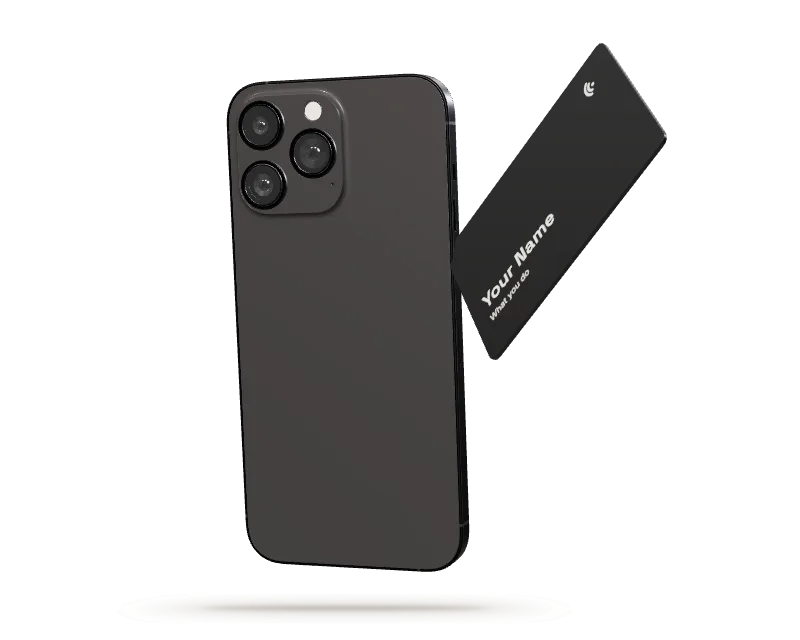
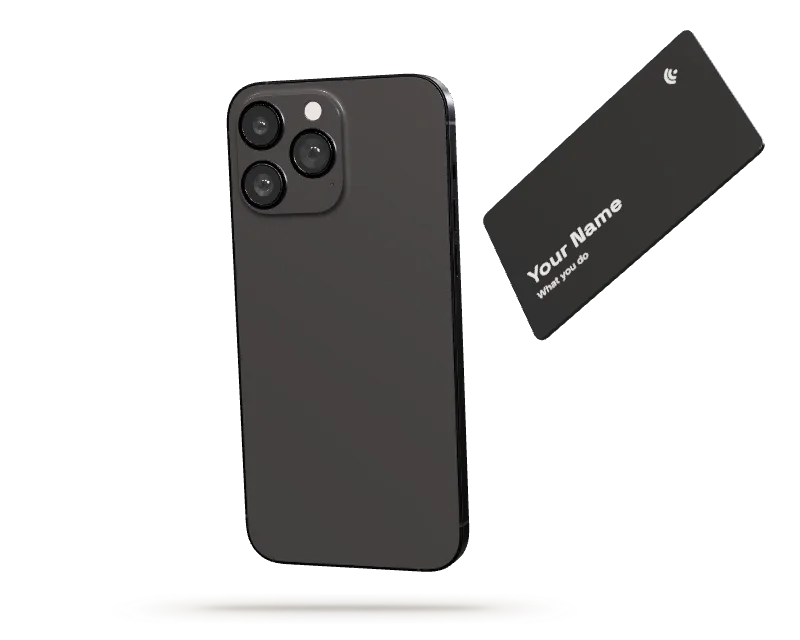
fix(home): tap demo card never passes through the phone, smooth settle; faster phone close-up
- Tap demo: the card's rest point moves out of the turning phone's sweep,
  its angle settles flat before it gets close, and the knock starts only
  once it's clear (zero box overlap across the loop, sampled); it glides
  to rest on a quartic ease-out over 2.4 s with the arc and knock ending
  at zero speed, instead of stopping dead; still re-rendered
- Phone story: section 700svh -> 540svh; the close-up reaches 95% soon
  after the note lands, then only the last 5% settles slowly

Changed region(s): [[0.5625, 0.0312, 0.9688, 0.5625]]

diff --git a/components/marketing/card3d/tapScene.ts b/components/marketing/card3d/tapScene.ts
@@ -22,11 +22,13 @@ const soft = (a: number, b: number, v: number) => {
 // When the card strikes, and how long the fall and the bounce take.
 const HIT = 1.7;
 const FALL = 1.3;
-const BOUNCE = 1.6;
+const BOUNCE = 2.4;
 
 // Where the card rests (world units; the phone's back faces us at the
-// start).
-const FAR = { x: 1.55, y: 0.95, z: 1.25, rx: -0.55, ry: -0.95, rz: 0.42 };
+// start). Far enough out that the phone's corners, sweeping round in its
+// full turn, never reach the card, whatever its angle (checked by sampling
+// the loop with a box-overlap test).
+const FAR = { x: 2.0, y: 1.05, z: 1.55, rx: -0.5, ry: -0.75, rz: 0.38 };
 
 // The phone's pose (before the strike's nudge) at time k in the loop.
 const SPIN_1 = [HIT + 0.55, HIT + 2.1] as const;
@@ -120,27 +122,38 @@ export function createTapScene(canvas: HTMLCanvasElement, opts: { still?: boolea
     const k = ((t % TAP_CYCLE) + TAP_CYCLE) % TAP_CYCLE;
 
     // The card. Falling in: the gap closes faster and faster (a cubic ease
-    // in), so it meets the phone at full speed. Bouncing off: it leaves at
-    // full speed and slows to rest (a cubic ease out). Together that's the
-    // cusp curve: slow at both far points, fastest at the strike.
+    // in), so it meets the phone at full speed, while its angle settles
+    // early (a cubic ease out), so it's already flat to the back before it
+    // gets close and no edge can cut into the phone. Bouncing off: it leaves
+    // at full speed and glides to rest on a quartic ease out (no speed left
+    // at rest, so it never stops dead); its angle stays flat at first and
+    // turns away once it's clear.
     const fall = clamp((k - (HIT - FALL)) / FALL);
     const bounce = clamp((k - HIT) / BOUNCE);
     let near: number;
-    if (k < HIT) near = fall * fall * fall;
-    else near = 1 - (1 - Math.pow(1 - bounce, 3));
-    // A little arc on the way back up, like a bounce under gravity.
-    const arc = k >= HIT ? Math.sin(Math.PI * bounce) * 0.35 : 0;
-    // The knock: the strike sets it spinning a little about every axis,
-    // dying away as it comes to rest (zero at the strike and at rest, so
-    // the loop joins up).
-    const knock = k >= HIT ? Math.sin(Math.PI * bounce) * Math.pow(1 - bounce, 0.6) : 0;
+    let turnT: number;
+    if (k < HIT) {
+      near = fall * fall * fall;
+      turnT = 1 - Math.pow(1 - fall, 3);
+    } else {
+      near = Math.pow(1 - bounce, 4);
+      turnT = 1 - bounce * bounce * (3 - 2 * bounce);
+    }
+    // A little arc on the way back up, like a bounce under gravity, flat
+    // again as it comes to rest.
+    const arc = k >= HIT ? Math.sin(Math.PI * bounce) * (1 - bounce) * 0.55 : 0;
+    // The knock: the strike sets it spinning a little about every axis once
+    // it has pulled clear of the phone, dying away smoothly as it comes to
+    // rest (zero, with no speed, at the strike and at rest, so the loop
+    // joins up).
+    const knock = k >= HIT ? Math.sin(Math.PI * bounce) * Math.pow(1 - bounce, 2) * 1.6 * soft(0.03, 0.2, bounce) : 0;
     // While it rests at the far point it hovers, just perceptibly.
     const hover = Math.sin((k / TAP_CYCLE) * Math.PI * 4) * 0.04 * (1 - near);
     card.group.position.set(mix(FAR.x, TOUCH.x, near), mix(FAR.y, TOUCH.y, near) + arc + hover, mix(FAR.z, TOUCH.z, near));
     card.group.rotation.set(
-      mix(FAR.rx, TOUCH.rx, near) - knock * 0.7,
-      mix(FAR.ry, TOUCH.ry, near) + knock * 0.9,
-      mix(FAR.rz, TOUCH.rz, near) + knock * 0.5
+      mix(FAR.rx, TOUCH.rx, turnT) - knock * 0.7,
+      mix(FAR.ry, TOUCH.ry, turnT) + knock * 0.9,
+      mix(FAR.rz, TOUCH.rz, turnT) + knock * 0.5
     );
 
     const r = clamp((k - HIT) / 1.1);

diff --git a/components/marketing/card3d/phoneScene.ts b/components/marketing/card3d/phoneScene.ts
@@ -118,16 +118,17 @@ const savedAt = track([[0.76, 0], [0.93, 1]]);
    turned about 35 degrees and tipped back about 25 so the screen faces
    slightly up and to the left (y -0.61 and x -0.44 in total, with the
    story's own end pose), and the camera banks and levels out with it. */
-// Past 1 the story keeps going through the long held stretch at the end of
-// the section (story.ts): the close-up reaches about 80% soon after the
-// note lands, then settles the rest of the way very slowly, along with the
-// swing, arriving only as the section leaves the screen. Each track starts
-// with a near-flat key so nothing jolts into motion.
-const zoomAt = track([[0.6, 0], [0.68, 0.03], [0.8, 0.36], [0.95, 0.72], [1.1, 0.8], [1.45, 0.92], [END, 1]]);
-const swingYaw = track([[0.6, 0], [0.66, 0.02], [0.84, 0.32], [1.02, -0.12], [1.4, -0.26], [END, -0.31]]);
-const swingTilt = track([[0.6, 0], [0.66, 0.01], [0.84, 0.14], [1.04, -0.22], [1.4, -0.32], [END, -0.36]]);
-const swingRoll = track([[0.6, 0], [0.66, -0.01], [0.84, -0.18], [1.04, -0.08], [1.4, -0.05], [END, -0.04]]);
-const camBank = track([[0.6, 0], [0.66, 0.01], [0.84, 0.1], [1.1, 0.02], [END, 0]]);
+// Past 1 the story keeps going through the short held stretch at the end
+// of the section (story.ts): the close-up moves briskly once the note has
+// landed and reaches about 95% soon after, then only the last 5% settles,
+// slowly and smoothly, along with the swing, as the section leaves the
+// screen. Each track starts with a near-flat key so nothing jolts into
+// motion.
+const zoomAt = track([[0.6, 0], [0.68, 0.04], [0.84, 0.5], [0.98, 0.88], [1.08, 0.95], [END, 1]]);
+const swingYaw = track([[0.6, 0], [0.66, 0.02], [0.84, 0.3], [1.0, -0.14], [1.12, -0.27], [END, -0.31]]);
+const swingTilt = track([[0.6, 0], [0.66, 0.01], [0.84, 0.14], [1.0, -0.22], [1.12, -0.33], [END, -0.36]]);
+const swingRoll = track([[0.6, 0], [0.66, -0.01], [0.84, -0.18], [1.0, -0.08], [1.12, -0.05], [END, -0.04]]);
+const camBank = track([[0.6, 0], [0.66, 0.01], [0.84, 0.1], [1.04, 0.02], [END, 0]]);
 
 
 /* The note that drops out of the Dynamic Island at the end. */

diff --git a/components/marketing/card3d/story.ts b/components/marketing/card3d/story.ts
@@ -4,10 +4,10 @@
 
    The section is SECTION_SVH tall. The story itself (the tap, the turn, the
    profile, the note) plays over the first STORY_SVH of its scroll, as
-   progress 0 to 1; the rest is a long, slow ending past 1 (up to
-   STORY_END) in which the close-up on the note settles while the section
-   is still pinned, so the note can be read for a good while. */
-export const SECTION_SVH = 700;
+   progress 0 to 1; the rest is a short ending past 1 (up to STORY_END)
+   in which the close-up on the note finishes its slow last settle while
+   the section is still pinned. */
+export const SECTION_SVH = 540;
 const SCROLL_SVH = SECTION_SVH - 100; // the sticky stage is one screen tall
 const STORY_SVH = 320;
 export const STORY_SHARE = STORY_SVH / SCROLL_SVH;

diff --git a/CLAUDE.md b/CLAUDE.md
@@ -97,9 +97,14 @@ and erasing them; the card printing the name once the form's Continue is
 pressed (a clip-path wipe behind a moving print line, `.print-area`); and
 the real 3D iPhone in its own small scene (`card3d/tapScene.ts`, still
 `public/home/tap-demo.webp` is its first frame): the card falls in on a
-cubic ease-in, strikes the phone's back at full speed and bounces off on a
-cubic ease-out with an xyz knock and a little arc, while the phone turns a
-full 360 to the profile and back. Form and card share one clock; every loop
+cubic ease-in (its angle settles flat early, so no edge reaches the phone
+first), strikes the phone's back at full speed and bounces off, gliding to
+rest on a quartic ease-out over 2.4 s with an xyz knock (it starts only once
+the card is clear) and a little arc, both reaching rest with zero speed,
+while the phone turns a full 360 to the profile and back. The card's rest
+point is far enough out that the turning phone's corners never reach it;
+any change to the card's path or rest point needs re-checking for overlap
+(sample the loop, test the two boxes) and the still re-rendered. Form and card share one clock; every loop
 ends where it began; sized in container units; paused off screen; a still
 under reduced motion. The phone model (GLB, materials, screen, bar) is
 shared by both scenes via `card3d/phoneModel.ts`), PhoneStory (sticky 3D iPhone; the scene follows the
@@ -109,17 +114,18 @@ overlapping so the phone turns one way only, the card swoops in, touches
 its back and flies on without stopping, and the screen scroll and saved
 note overlap the turn; progress goes negative (`PRE_ROLL`) while the
 section is still coming up the screen; the story uses the first
-`STORY_SHARE` of the section's scroll and the rest is the slow close-up on
+`STORY_SHARE` of the section's scroll and the rest is the close-up on
 the "contact saved" note; as the note drops, the camera
 pushes in on the Dynamic Island over the whole last stretch, while the
 phone swings one way and flows back into its final pose (turned about 35
 degrees, tipped back about 25, screen facing up and to the left) and the
 camera banks and levels out (`zoomAt`, `swing*`, `camBank` tracks: about
-80% of the close-up soon after the note lands, then a very slow settle;
-timing in `card3d/story.ts`: the section is 700svh, the story plays over
-its first 320svh of scroll and progress runs on past 1 to `STORY_END`
-through a long held stretch, so the note stays readable for about two
-screens of scrolling and the motion only arrives as the section leaves); the screen texture is the demo profile at 3x
+95% of the close-up soon after the note lands, moving briskly, then only
+the last 5% settles slowly; timing in `card3d/story.ts`: the section is
+540svh, the story plays over its first 320svh of scroll and progress runs
+on past 1 to `STORY_END` through a short held stretch (Harsh: the old
+700svh took too many scrolls after the note), and the motion arrives as
+the section leaves); the screen texture is the demo profile at 3x
 (`phone-screen.webp` 1170 x 2925, `phone-bar.webp`), the note is drawn at
 2x, and the phone canvas renders at 1.5x to 2x pixel ratio; on phones the step text is
 centred under the phone, the canvas has feathered edges
